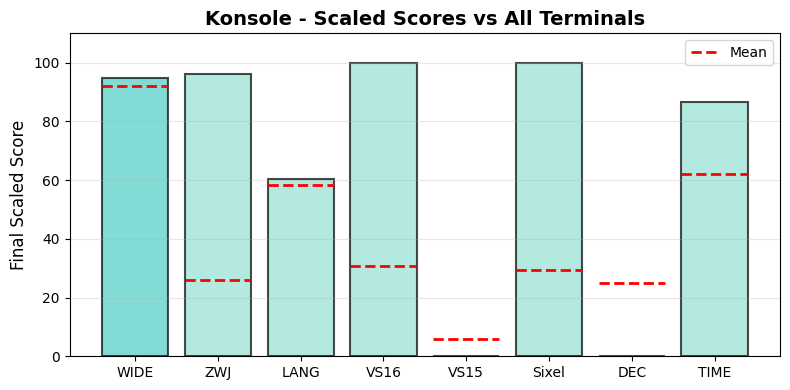
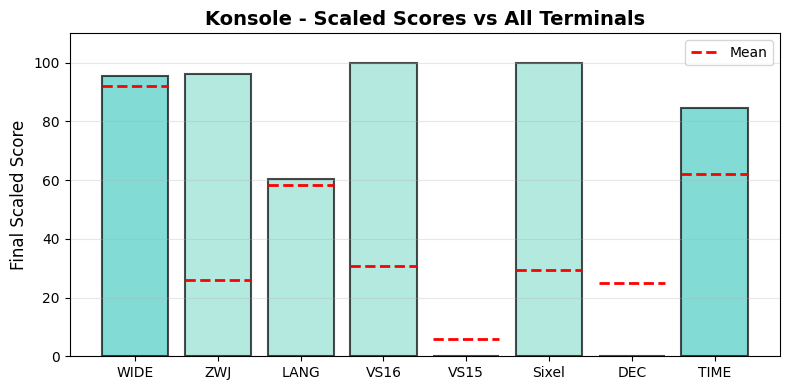
update Konsole manually

Changed region(s): [[0.8506, 0.2462, 0.9722, 0.9231], [0.1215, 0.1846, 0.2127, 0.2154]]

diff --git a/docs/results.rst b/docs/results.rst
@@ -335,7 +335,7 @@ General Tabulated Summary
         3  :ref:`kitty <kitty>`                     0.43.1                    Linux        :sref:`89 <kittyscores> 89`           :sref:`16 <kittywide> 98`             :sref:`91 <kittylang> 91`            :sref:`100 <kittyzwj> 100`        :sref:`100 <kittyvs16> 100`           :sref:`100 <kittyvs15> 100`       :sref:`no <kittydecmodes> 50`              :sref:`19 <kittydecmodes> 29`           :score-0:`no`     :sref:`1748 <kittytime> 37`
         4  :ref:`terminal.exe <terminalexe>`        1.23.12811.0              Windows      :sref:`87 <terminalexescores> 87`     :sref:`16 <terminalexewide> 98`       :sref:`51 <terminalexelang> 51`      :sref:`100 <terminalexezwj> 100`  :sref:`100 <terminalexevs16> 100`     :sref:`0 <terminalexevs15> 0`     :sref:`enabled <terminalexedecmodes> 100`  :sref:`26 <terminalexedecmodes> 39`     :score-100:`yes`  :sref:`1147 <terminalexetime> 44`
         5  :ref:`iTerm2 <iterm2>`                   3.6.5                     Darwin       :sref:`86 <iterm2scores> 86`          :sref:`16 <iterm2wide> 94`            :sref:`60 <iterm2lang> 60`           :sref:`99 <iterm2zwj> 99`         :sref:`94 <iterm2vs16> 94`            :sref:`0 <iterm2vs15> 0`          :sref:`no <iterm2decmodes> 50`             :sref:`34 <iterm2decmodes> 52`          :score-100:`yes`  :sref:`4367 <iterm2time> 23`
-        6  :ref:`Konsole <konsole>`                 23.08.5                   Linux        :sref:`82 <konsolescores> 82`         :sref:`15 <konsolewide> 95`           :sref:`60 <konsolelang> 60`          :sref:`96 <konsolezwj> 96`        :sref:`100 <konsolevs16> 100`         :sref:`0 <konsolevs15> 0`         :sref:`no <konsoledecmodes> 50`            :sref:`0 <konsoledecmodes> 0`           :score-100:`yes`  :sref:`75 <konsoletime> 87`
+        6  :ref:`Konsole <konsole>`                 25.08.2                   Linux        :sref:`82 <konsolescores> 82`         :sref:`15 <konsolewide> 96`           :sref:`60 <konsolelang> 60`          :sref:`96 <konsolezwj> 96`        :sref:`100 <konsolevs16> 100`         :sref:`0 <konsolevs15> 0`         :sref:`no <konsoledecmodes> 50`            :sref:`0 <konsoledecmodes> 0`           :score-100:`yes`  :sref:`86 <konsoletime> 84`
         7  :ref:`tmux <tmux>`                       3.4                       Linux        :sref:`77 <tmuxscores> 77`            :sref:`15.1 <tmuxwide> 96`            :sref:`57 <tmuxlang> 57`             :sref:`81 <tmuxzwj> 81`           :sref:`100 <tmuxvs16> 100`            :sref:`0 <tmuxvs15> 0`            :sref:`no <tmuxdecmodes> 50`               :sref:`0 <tmuxdecmodes> 0`              :score-100:`yes`  :sref:`78 <tmuxtime> 86`
         8  :ref:`contour <contour>`                 0.6.2-master-5b1ad5be     Linux        :sref:`75 <contourscores> 75`         :sref:`16 <contourwide> 98`           :sref:`91 <contourlang> 91`          :sref:`96 <contourzwj> 96`        :sref:`0 <contourvs16> 0`             :sref:`0 <contourvs15> 0`         :sref:`enabled <contourdecmodes> 100`      :sref:`39 <contourdecmodes> 59`         :score-100:`yes`  :sref:`182 <contourtime> 73`
         9  :ref:`WezTerm <wezterm>`                 20251025-070338-b6e75fd7  Linux        :sref:`67 <weztermscores> 67`         :sref:`16 <weztermwide> 98`           :sref:`99 <weztermlang> 99`          :sref:`100 <weztermzwj> 100`      :sref:`0 <weztermvs16> 0`             :sref:`0 <weztermvs15> 0`         :sref:`enabled <weztermdecmodes> 100`      :sref:`22 <weztermdecmodes> 33`         :score-100:`yes`  :sref:`1050 <weztermtime> 45`

diff --git a/docs/sw_results/konsole.rst b/docs/sw_results/konsole.rst
@@ -4,7 +4,7 @@ Konsole
 -------
 
 
-Tested Software version 23.08.5 on Linux.
+Tested Software version 25.08.2 on Linux.
 The homepage URL of this terminal is https://apps.kde.org/konsole/.
 Full results available at ucs-detect_ repository path
 `data/konsole.yaml <https://github.com/jquast/ucs-detect/blob/master/data/konsole.yaml>`_.
@@ -22,14 +22,14 @@ Detailed breakdown of how scores are calculated for *Konsole*:
    ===  ==================================  ===========  ====================
      #  Score Type                          Raw Score    Final Scaled Score
    ===  ==================================  ===========  ====================
-     1  :ref:`WIDE <konsolewide>`           94.77%       94.6%
+     1  :ref:`WIDE <konsolewide>`           95.70%       95.6%
      2  :ref:`ZWJ <konsolezwj>`             95.99%       96.0%
      3  :ref:`LANG <konsolelang>`           75.98%       60.5%
      4  :ref:`VS16 <konsolevs16>`           100.00%      100.0%
      5  :ref:`VS15 <konsolevs15>`           0.00%        0.0%
      6  :ref:`Sixel <konsolesixel>`         yes          100.0%
      7  :ref:`DEC Modes <konsoledecmodes>`  0            0.0%
-     8  :ref:`TIME <konsoletime>`           75.93s       86.5%
+     8  :ref:`TIME <konsoletime>`           86.45s       84.5%
    ===  ==================================  ===========  ====================
 
 **Score Comparison Plot:**
@@ -44,7 +44,7 @@ The following plot shows how this terminal's scores compare to all other termina
 
 **Final Scaled Score Calculation:**
 
-- Raw Final Score: 68.00%
+- Raw Final Score: 67.99%
   (weighted average of all raw scores: WIDE + ZWJ + LANG + VS16 + VS15 + Sixel + DEC Modes + 0.5*TIME)
   the categorized 'average' absolute support level of this terminal
   Note: DEC Modes and TIME are normalized to 0-1 range before averaging.
@@ -57,11 +57,11 @@ The following plot shows how this terminal's scores compare to all other termina
 **WIDE Score Details:**
 
 Wide character support calculation:
-- Total successful codepoints: 6522
+- Total successful codepoints: 6586
 - Total codepoints tested: 6882
 - Best matching Unicode version: 15.0.0
-- Formula: 6522 / 6882
-- Result: 94.77%
+- Formula: 6586 / 6882
+- Result: 95.70%
 
 **ZWJ Score Details:**
 
@@ -107,10 +107,10 @@ DEC Private Modes support calculation:
 **TIME Score Details:**
 
 Test execution time:
-- Elapsed time: 75.93 seconds
+- Elapsed time: 86.45 seconds
 - Note: This is a raw measurement; lower is better
 - Scaled score uses inverse log10 scaling across all terminals
-- Scaled result: 86.5%
+- Scaled result: 84.5%
 
 **LANG Score Details (Geometric Mean):**
 
@@ -144,7 +144,7 @@ results:
    '14.0.0'            0         54  100.0%
    '15.0.0'            0         22  100.0%
    '15.1.0'            5          5  0.0%
-   '16.0.0'          198        198  0.0%
+   '16.0.0'          134        198  32.3%
    '17.0.0'          157        157  0.0%
    =========  ==========  =========  =============
 
@@ -1304,7 +1304,7 @@ with the following commands::
 Test Execution Time
 +++++++++++++++++++
 
-The test suite completed in **75.93 seconds** (75s).
+The test suite completed in **86.45 seconds** (86s).
 
 This time measurement represents the total duration of the test execution,
 including all Unicode wide character tests, emoji ZWJ sequences, variation
